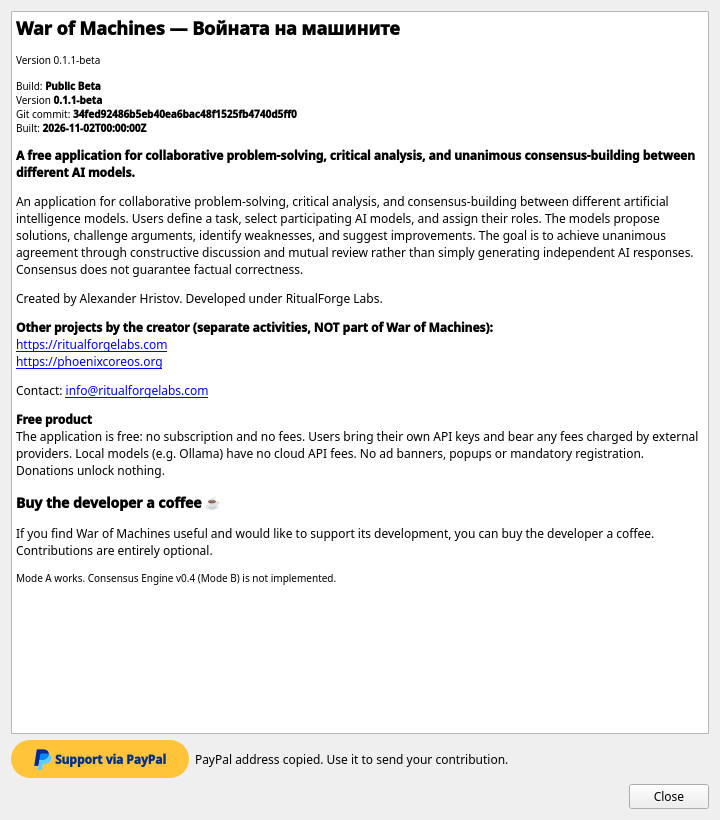
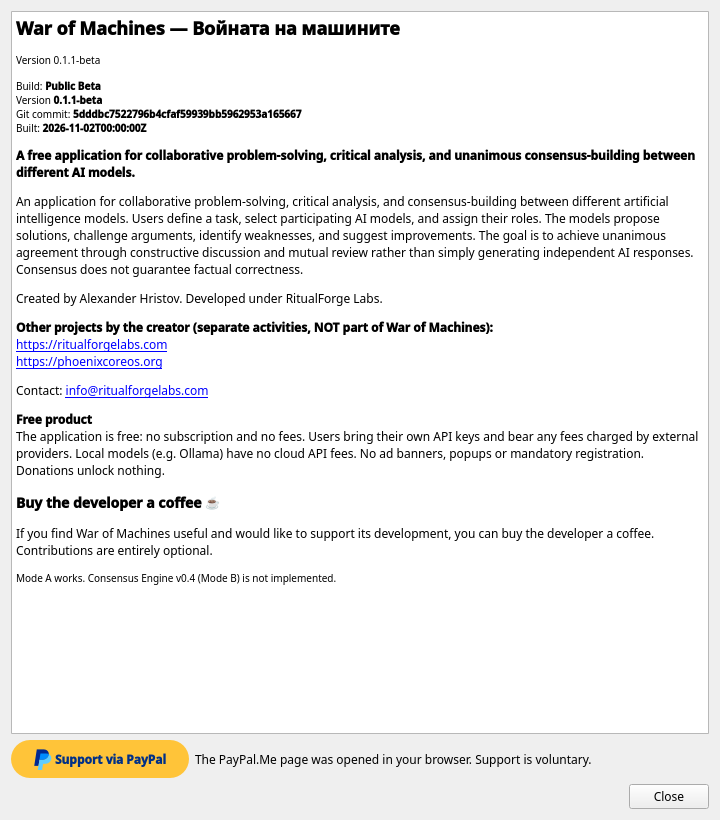
Support paragraph: link the PayPal.Me page; update About screenshots

Changed region(s): [[0.275, 0.9146, 0.825, 0.9451], [0.0917, 0.122, 0.4278, 0.1524]]

diff --git a/CHANGELOG.md b/CHANGELOG.md
@@ -6,7 +6,8 @@
 - About window shows the build type, version and Git commit.
 - English/Bulgarian interface; separate AI discussion language.
 - Providers: OpenAI, xAI, Anthropic, Google Gemini, Mistral, DeepSeek, OpenRouter, optional local Ollama; dynamic model catalog.
+- Voluntary support: the "Support via PayPal" button in About opens the PayPal.Me page (https://paypal.me/Hristov375) in your browser; nothing is copied to the clipboard.
 - Mode A (AI Team) available. Mode B / Consensus Engine v0.4 not implemented.
 - Planned licence: War of Machines Freeware License (final text pending owner approval).
 
-BG: 0.1.1-beta — неиздадена (подготвена, не е публикувана). Нова официална страница с чиста история; „За проекта“ показва тип компилация, версия и commit; BG/EN интерфейс и отделен език на дискусията; режим A е наличен, режим B не е реализиран; планиран лиценз War of Machines Freeware License (очаква одобрение).
+BG: 0.1.1-beta — неиздадена (подготвена, не е публикувана). Нова официална страница с чиста история; „За проекта“ показва тип компилация, версия и commit; BG/EN интерфейс и отделен език на дискусията; бутонът „Подкрепи чрез PayPal“ отваря страницата PayPal.Me (https://paypal.me/Hristov375) в браузъра; режим A е наличен, режим B не е реализиран; планиран лиценз War of Machines Freeware License (очаква одобрение).

diff --git a/README_BG.md b/README_BG.md
@@ -123,7 +123,7 @@ war-of-machines
 </p>
 
 <p align="center">
-War of Machines е безплатно и ще остане без реклами. Ако ви е полезно, можете доброволно да подкрепите разработката — прозорецът „За проекта“ в приложението показва как. Подкрепата никога не е задължителна и не отключва функции.
+War of Machines е безплатно и ще остане без реклами. Ако ви е полезно, можете доброволно да подкрепите разработката чрез PayPal.Me: <a href="https://paypal.me/Hristov375">paypal.me/Hristov375</a>. Бутонът <i>„Подкрепи чрез PayPal“</i> в прозореца „За проекта“ отваря същата страница в браузъра. Подкрепата никога не е задължителна и не отключва функции.
 </p>
 
 <p align="center">© 2026 Александър Христов / RitualForge Labs</p>

diff --git a/README.md b/README.md
@@ -123,7 +123,7 @@ Created by <b>Alexander Hristov</b> · Developed under <b>RitualForge Labs</b><b
 </p>
 
 <p align="center">
-War of Machines is free and will stay without ads. If it is useful to you, you can support its development voluntarily — the application's About window shows how. Support is never required and does not unlock features.
+War of Machines is free and will stay without ads. If it is useful to you, you can support its development voluntarily via PayPal.Me: <a href="https://paypal.me/Hristov375">paypal.me/Hristov375</a>. The <i>Support via PayPal</i> button in the application's About window opens the same page in your browser. Support is never required and does not unlock features.
 </p>
 
 <p align="center">© 2026 Alexander Hristov / RitualForge Labs</p>
